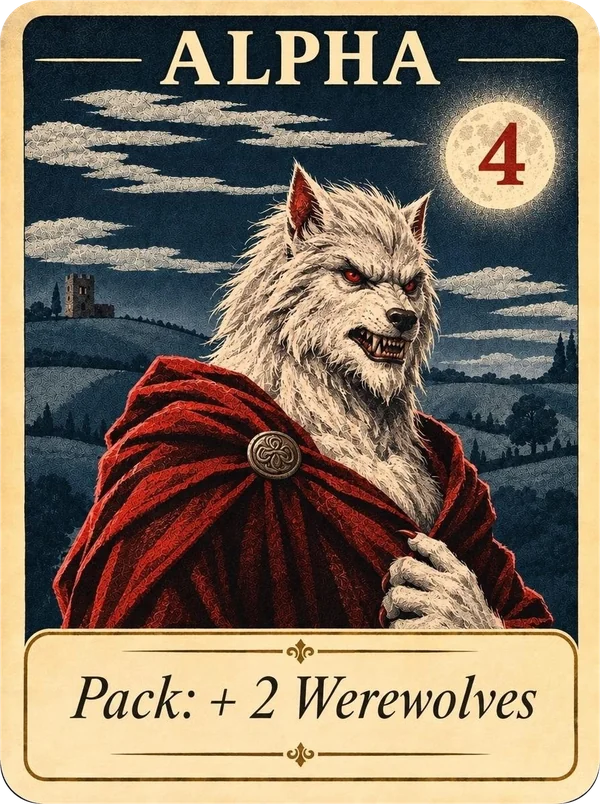
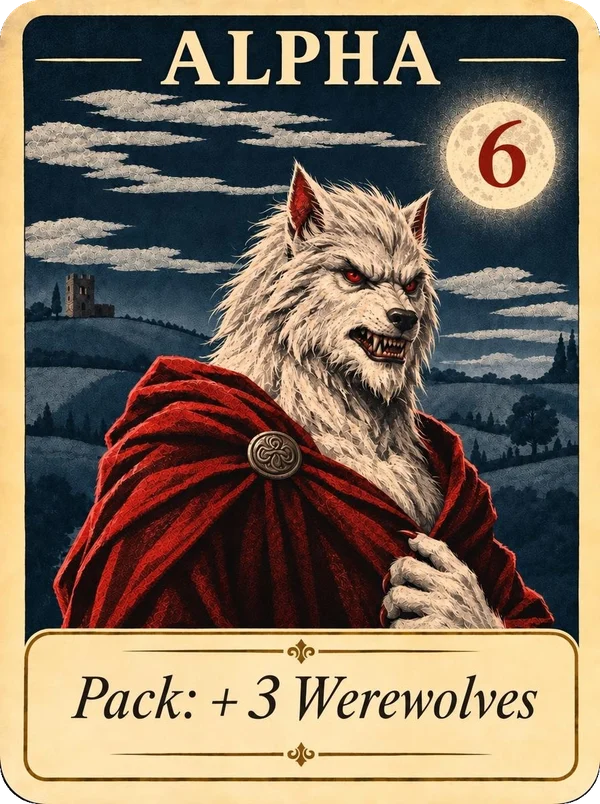
Weirdwolves: new art for Seer, Werewolf, Alpha Wolf and Cannibal (#24)
* Weirdwolves: larger-text art for Villager, Alpha Wolf, Vampire, Seer, Sister

Replaces the last five card images (same file names) with versions whose
rule text is larger; every card now has the larger-text art.

Claude-Session: https://claude.ai/code/session_01TG8fVB5frUjQbZRfx1xZAy

* Player view: full-width game, history as an optional panel, larger hand

The list of what everyone did is now a panel the player opens and closes
from the top bar (remembered between visits, with a count of new entries
while closed): a column on wide screens, a drawer on narrower ones. The
game area uses the full width. The player's own hand and sets are a
little larger, and spread out on wide screens. Your own moves in the
list say "your" rather than "You's"/"their".

Claude-Session: https://claude.ai/code/session_01TG8fVB5frUjQbZRfx1xZAy

* Sets engine: optional rules for Day/Night balance (off by default)

- arrange 'lock': a set is fixed as soon as it forms, so its cards are not
  regrouped later to absorb new lone cards.
- zoneLimits: most cards a player may play to a zone type per turn.
- combo moveTo: when that set forms in a stacking zone its cards move to
  the owner's zone of that type (e.g. Night roles' sets go to sleep).
- vote 'night': at the end of each round the Day leader's best Day set
  moves to their Night.
- zones[].lone: cards in no set score that multiple of their value.

None are on in any project yet; they were added to test rule changes
[…]

diff --git a/static/js/model.js b/static/js/model.js
@@ -481,17 +481,17 @@ export const WEREWOLF_SCORING = {
     label: 'Sets score (add up your sets)',
     cardsScore: false,
     dayMultiplier: 2,
-    value: { villager: 1, seer: 1, werewolf: 2, witch: 3, cupid: -1, 'alpha-wolf': 4, defender: 'same', vampire: 5, sister: 3, hunter: 2, cannibal: 6 },
+    value: { villager: 1, seer: 1, werewolf: 2, witch: 3, cupid: 0, 'alpha-wolf': 6, defender: 'same', vampire: 5, sister: 3, hunter: 2, cannibal: 8 },
     combos: {
       mob: ['5 villagers', ''], vision: ['seer + 3 tag:night distinct', ''], hunt: ['werewolf + villager', ''], potion: ['witch + villager + werewolf', ''],
       lovers: ['cupid + 2 any', ''], pack: ['alpha wolf + 3 werewolves', ''], guard: ['defender + villager/seer/witch/sister/hunter', ''],
-      feast: ['vampire + 3 villagers', ''], sisters: ['2 sisters', ''], bullet: ['hunter + werewolf', ''], banquet: ['cannibal + 5 tag:day', ''],
+      feast: ['vampire + 3 villagers', ''], sisters: ['2 sisters', ''], bullet: ['hunter + werewolf', ''], banquet: ['cannibal + 5 villagers', ''],
     },
     text: {
       villager: 'Mob: 5 Villagers.', seer: 'Vision: a Seer + 3 different Night characters (moon cards).', werewolf: 'Dinner: a Werewolf + a Villager.',
       witch: 'Potions: Witch + Villager (saved) + Werewolf (poisoned).', cupid: 'Lovers: Cupid + any 2 cards.', 'alpha-wolf': 'Pack: Alpha Wolf + 3 Werewolves.',
       defender: 'Defend: a Defender + a Villager, Seer, Witch, Sister or Hunter.', vampire: 'Feast: a Vampire + 3 Villagers.', sister: 'Sisters: a pair of Sisters.',
-      hunter: 'Hunt: a Hunter + a Werewolf.', cannibal: 'Banquet: a Cannibal + 5 Day characters (no moon).',
+      hunter: 'Hunt: a Hunter + a Werewolf.', cannibal: 'Banquet: a Cannibal + 5 Villagers.',
     },
     scoring:
       "Only cards in a set score. A set is worth the sum of its cards' values - doubled in your Day sets, single in your Night sets. Each card counts in one set only. Night sets are arranged for the most points; Day sets for the fewest lone cards.\n" +
@@ -500,13 +500,13 @@ export const WEREWOLF_SCORING = {
       'Vision: a Seer + 3 different Night characters, e.g. Seer, Witch, Werewolf, Vampire (11) or Seer, Seer, Werewolf, Witch (7).\n' +
       'Dinner: a Werewolf + a Villager (3).\n' +
       'Potions: a Witch + a Villager + a Werewolf (6).\n' +
-      "Lovers: Cupid + any 2 cards (the two cards' values, less 1 for Cupid).\n" +
-      'Pack: the Alpha Wolf + 3 Werewolves (10).\n' +
+      "Lovers: Cupid + any 2 cards (the two cards' values).\n" +
+      'Pack: the Alpha Wolf + 3 Werewolves (12).\n' +
       'Defend: a Defender + a Villager, Seer, Witch, Sister or Hunter (2 to 6). The Defender is wild: it is worth as much as the card it is with.\n' +
       'Feast: a Vampire + 3 Villagers (8).\n' +
       'Sisters: a pair of Sisters (6).\n' +
       'Hunt: a Hunter + a Werewolf (4).\n' +
-      'Banquet: a Cannibal + 5 Day characters (Villager, Cupid, Defender, Sister, Hunter or Cannibal), e.g. with 5 Villagers (11).',
+      'Banquet: a Cannibal + 5 Villagers (13).',
   },
   every: {
     label: 'Every card scores (+ set bonuses)',
@@ -654,8 +654,9 @@ export function werewolfProject() {
     card('hunter', 'Hunter', '🏹', 2, '#a9bf86'),
     card('cannibal', 'Cannibal', '🍖', 2, '#c98a5a'),
   ];
-  // Finished card art (name, value and text are in the picture). The Cannibal has none yet.
-  for (const id of ['villager', 'seer', 'werewolf', 'witch', 'cupid', 'alpha-wolf', 'defender', 'vampire', 'sister', 'hunter']) {
+  // Finished card art (name, value and text are in the picture; the values
+  // are those of the standard "Sets score" scoring).
+  for (const id of ['villager', 'seer', 'werewolf', 'witch', 'cupid', 'alpha-wolf', 'defender', 'vampire', 'sister', 'hunter', 'cannibal']) {
     const c = p.cards.find((x) => x.id === id);
     c.image = `img/weirdwolves/${id}.webp`;
     c.imageMode = 'card';

diff --git a/tests/js/engine.test.js b/tests/js/engine.test.js
@@ -377,7 +377,7 @@ test('set collection: patterns and the best split into tricks', () => {
   assert.equal(score(Array(4).fill('Villager')), 0, 'four villagers are not a set');
   assert.equal(score(['Seer', 'Witch', 'Werewolf', 'Vampire']), 11, 'Vision: 3 different Night characters');
   assert.equal(score(['Seer', 'Seer', 'Werewolf', 'Witch']), 7, 'Vision with a second Seer');
-  assert.equal(score(['Seer', 'Sister', 'Hunter', 'Cupid']), 4, 'Day characters do not count for a Seer: only Lovers (3 + 2 - 1)');
+  assert.equal(score(['Seer', 'Sister', 'Hunter', 'Cupid']), 5, 'Day characters do not count for a Seer: only Lovers (3 + 2)');
   assert.equal(score(['Seer', 'Witch', 'Villager', 'Werewolf']), 6, 'a Villager is not a Night character: Potions instead');
   assert.equal(score(['Sister', 'Sister']), 6, 'Sisters');
   assert.equal(score(['Hunter', 'Werewolf']), 4, 'Hunt');
@@ -386,14 +386,14 @@ test('set collection: patterns and the best split into tricks', () => {
   assert.equal(score(['Sister']), 0, 'one Sister alone is not a set');
   assert.equal(score(['Werewolf', 'Villager']), 3, 'Dinner');
   assert.equal(score(['Witch', 'Villager', 'Werewolf']), 6, 'Potions');
-  assert.equal(score(['Alpha Wolf', 'Werewolf', 'Werewolf', 'Werewolf']), 10, 'Pack: 3 Werewolves');
+  assert.equal(score(['Alpha Wolf', 'Werewolf', 'Werewolf', 'Werewolf']), 12, 'Pack: 3 Werewolves');
   assert.equal(score(['Alpha Wolf', 'Werewolf', 'Werewolf']), 0, 'two Werewolves are not a Pack');
   assert.equal(score(['Defender', 'Villager']), 2, 'Defend = 2 x the guarded card');
   assert.equal(score(['Defender', 'Witch']), 6);
   assert.equal(score(['Vampire', 'Villager', 'Villager', 'Villager']), 8, 'Feast');
-  assert.equal(score(['Cupid', 'Vampire', 'Vampire']), 9, 'Lovers: the two cards, less 1 for Cupid');
-  assert.equal(score(['Cannibal', ...Array(5).fill('Villager')]), 11, 'Banquet beats a Mob');
-  assert.equal(score(['Cannibal', 'Sister', 'Sister', 'Hunter', 'Villager', 'Villager']), 16, 'Banquet: any 5 Day characters');
+  assert.equal(score(['Cupid', 'Vampire', 'Vampire']), 10, 'Lovers: the two cards (Cupid is worth 0)');
+  assert.equal(score(['Cannibal', ...Array(5).fill('Villager')]), 13, 'Banquet beats a Mob');
+  assert.equal(score(['Cannibal', 'Sister', 'Sister', 'Hunter', 'Villager', 'Villager']), 6, 'a Banquet needs 5 Villagers: only the Sisters');
   assert.equal(score(['Cannibal', 'Werewolf', 'Villager', 'Villager', 'Villager', 'Villager']), 3, 'a Werewolf is not a Day character: only a Dinner');
   // Each card counts once, and the best arrangement wins: Feast + Dinner beats Mob.
   assert.equal(score(['Vampire', 'Werewolf', ...Array(5).fill('Villager')]), 11);
